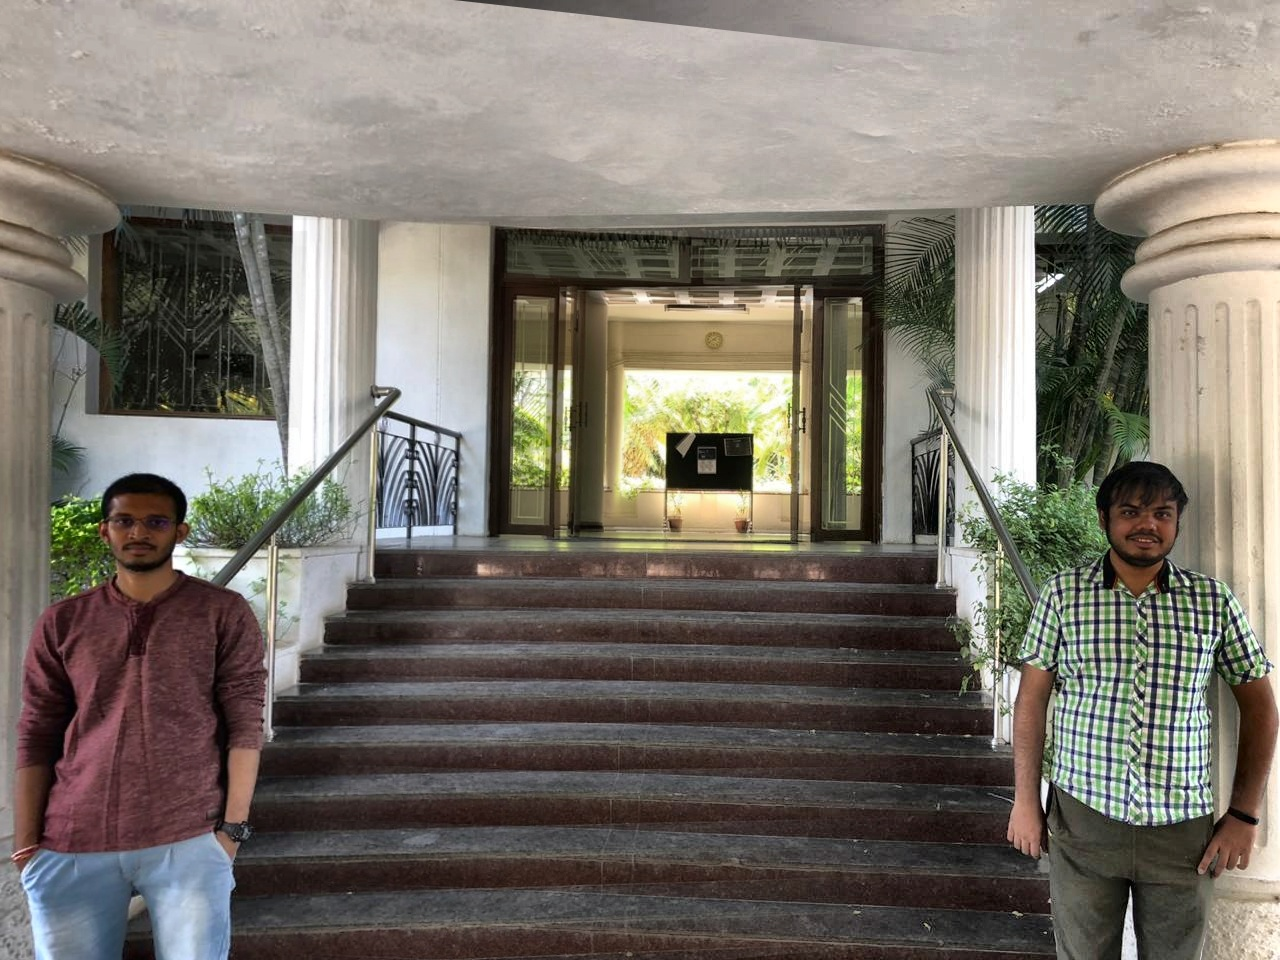
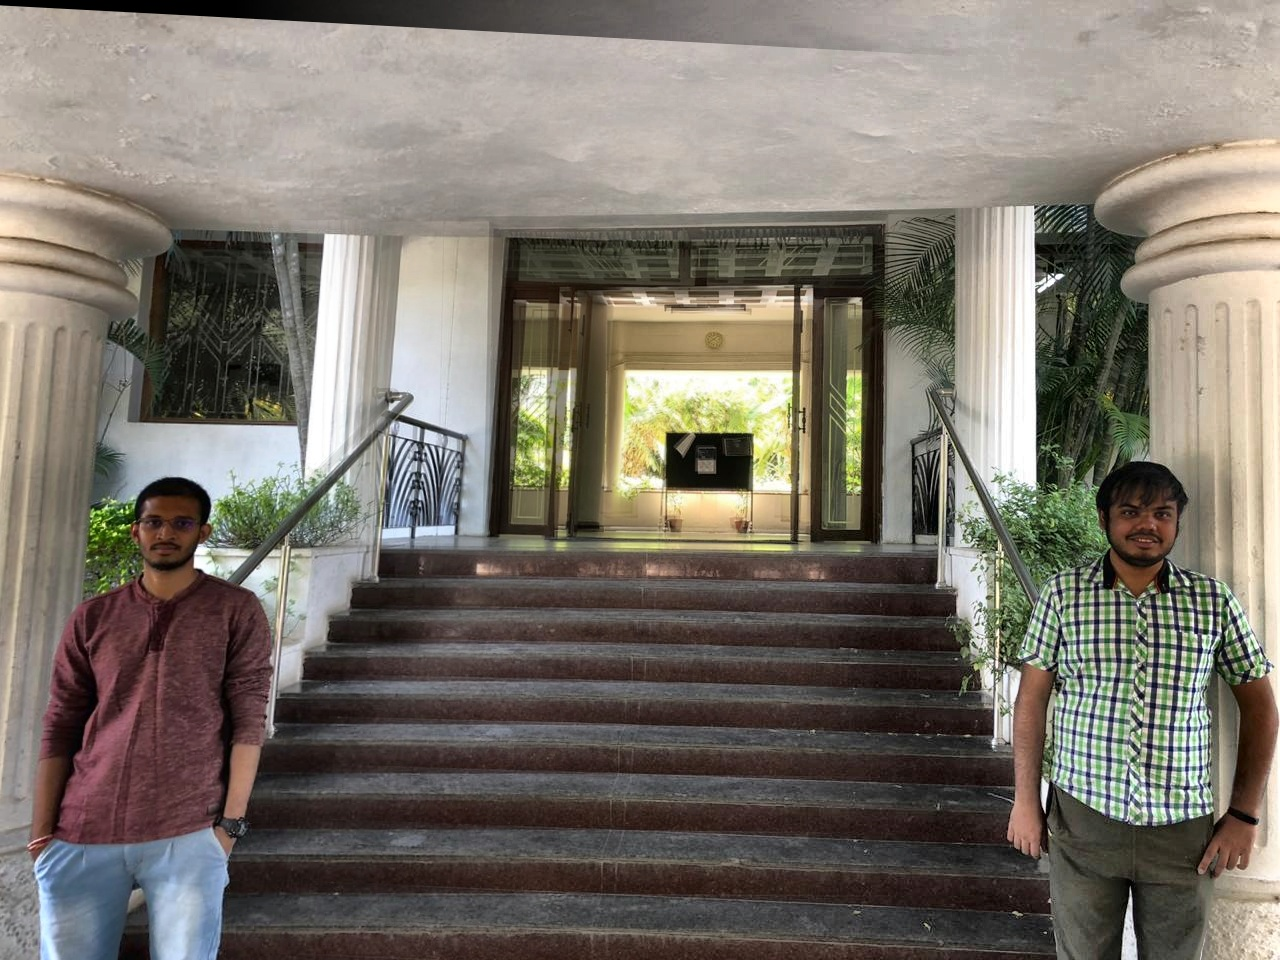
Used new outputs

diff --git a/main.py b/main.py
@@ -4,9 +4,9 @@ from lib.util import *
 
 #some error with homography
 #check
-
-Image_1 = cv2.imread("dataset/im3_1.jpeg")
-Image_2 = cv2.imread("dataset/im3_2.jpeg")
+n_keypoints = 10000
+Image_1 = cv2.imread("dataset/im10_1.jpeg")
+Image_2 = cv2.imread("dataset/im10_2.jpeg")
 
 x,y,_ = Image_1.shape
 Image_2 = cv2.resize(Image_2,(y,x))
@@ -24,11 +24,8 @@ if (len(body_1) == 0 or len(body_2) == 0):
 Image_1,Image_2,body_1,body_2 = sort_order(Image_1,Image_2,body_1,body_2)
 
 
-keypoints_1 = keypoints_orb_detector(Image_1,10000)
-keypoints_2 = keypoints_orb_detector(Image_2,10000)
-
-cv2.imwrite("body_detect1.jpg",i_b1)
-cv2.imwrite("body_detect2.jpg",i_b2)
+keypoints_1 = keypoints_orb_detector(Image_1,n_keypoints)
+keypoints_2 = keypoints_orb_detector(Image_2,n_keypoints)
 
 if (len(body_1) == 0 or len(body_2) == 0):
     print("Exitting the process as **Face not detected in one/both Images**")
@@ -37,10 +34,10 @@ if (len(body_1) == 0 or len(body_2) == 0):
 keypoints_valid_1 = valid_keypoints(body_1,body_2,keypoints_1)
 keypoints_valid_2 = valid_keypoints(body_1,body_2,keypoints_2)
 
-_, descriptor1  = keypoints_orb_descriptor(Image_1,keypoints_valid_1, 10000)
-_, descriptor2  = keypoints_orb_descriptor(Image_2,keypoints_valid_2, 10000)
+_, descriptor1  = keypoints_orb_descriptor(Image_1,keypoints_valid_1, n_keypoints)
+_, descriptor2  = keypoints_orb_descriptor(Image_2,keypoints_valid_2, n_keypoints)
 
-keypoint_matches = keypoint_bf_matcher(descriptor1, descriptor2, 37)
+keypoint_matches = keypoint_bf_matcher(descriptor1, descriptor2)
 
 source_points, destination_points = extract_matched_points(keypoint_matches, keypoints_valid_1, keypoints_valid_2)
 
@@ -58,5 +55,5 @@ a,b = new_points[0]
 c,d = new_points[-1]
 body_1_homographed = [(a,b,c,d)]
 op_image = alpha_blend(homography_warped_1,Image_2,body_1_homographed,body_2)
-cv2.imwrite("trial_outputs/im3_op.jpg", op_image)
+cv2.imwrite("trial_outputs/im10_op.jpg", op_image)
 

diff --git a/lib/util.py b/lib/util.py
@@ -58,17 +58,14 @@ def keypoints_orb_descriptor(img, kp, n=1000):
 	kp, des = orb.compute(img, kp)
 	return kp, des
 
-def keypoint_bf_matcher(des1, des2, n=4):
+def keypoint_bf_matcher(des1, des2, n=40):
 	bf = cv2.BFMatcher(cv2.NORM_HAMMING, crossCheck=True)
 	matches = bf.match(des1,des2)
 	matches = sorted(matches, key = lambda x:x.distance)
 	min_dist = matches[0].distance	
-	for i in range(len(matches)):
-#        print (matches[i].distance)
-		if matches[i].distance > n*min_dist:
-			break
-#    print (i)
-	return matches[0:37]
+	if (len(matches) < 500):
+		n = 20
+	return matches[0:n]
 
 def extract_matched_points(dmatches, kpts1, kpts2):
 	src_pts  = np.float32([kpts1[m.queryIdx].pt for m in dmatches]).reshape(-1,1,2)
